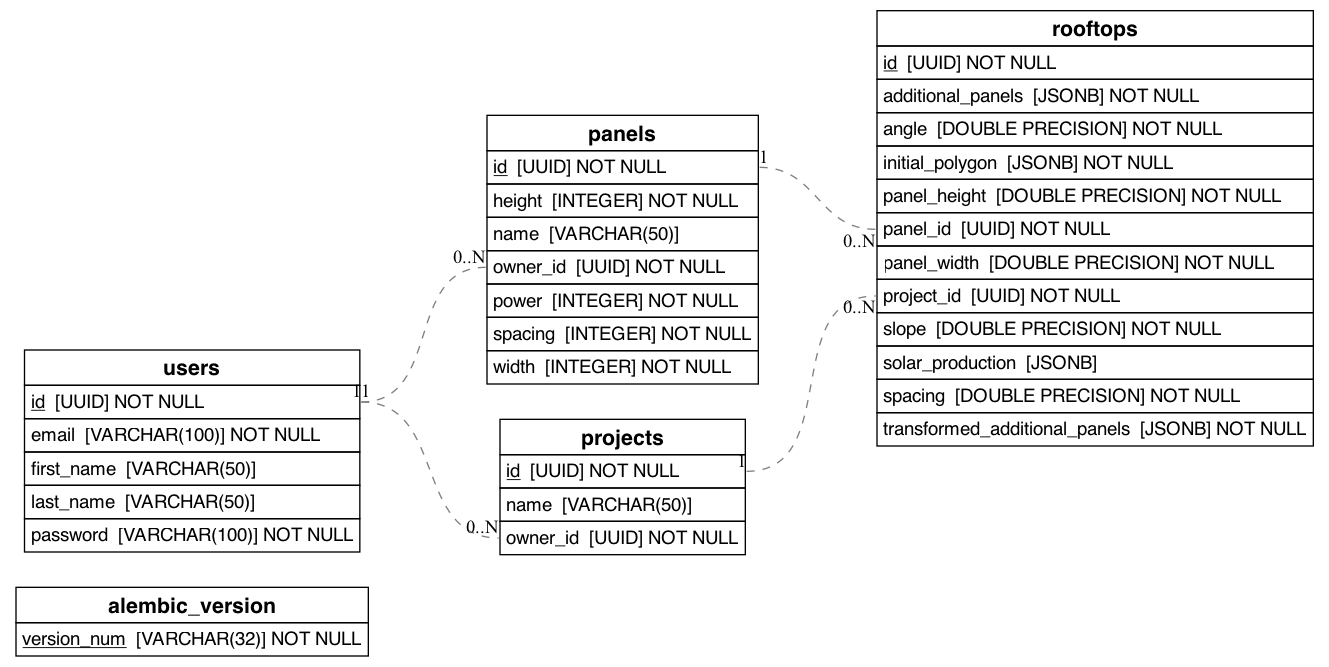
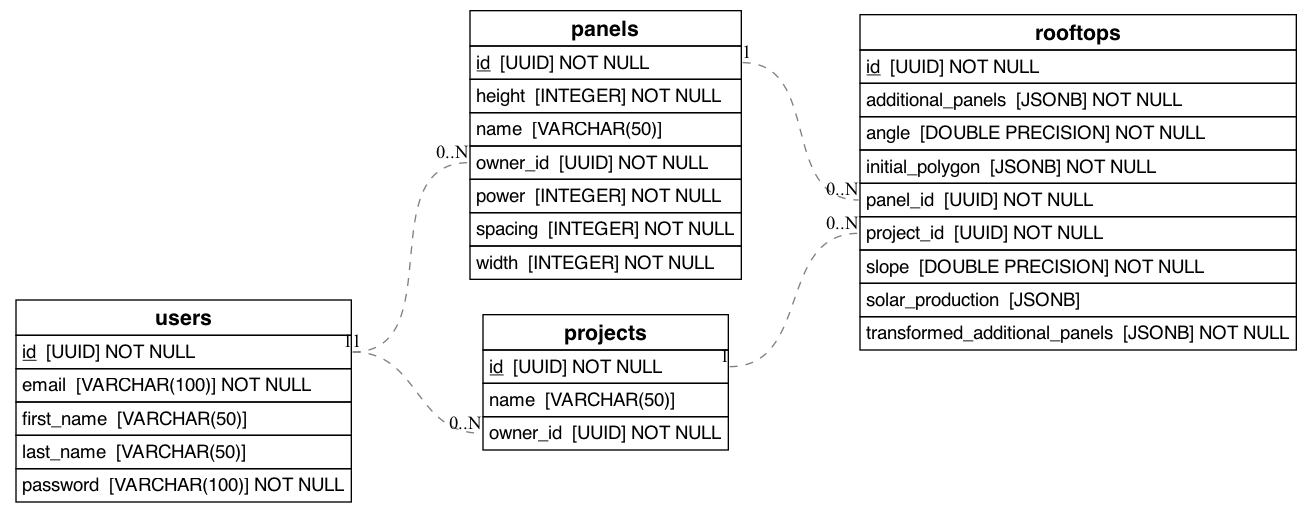
add solar production

Changed region(s): [[0.625, 0.0, 1.0, 0.6862], [0.3125, 0.0, 0.5938, 0.9045], [0.0, 0.499, 0.2812, 0.9981]]

diff --git a/services/rooftops.py b/services/rooftops.py
@@ -2,7 +2,9 @@ from sqlalchemy.orm import Session
 from models import Rooftop, Project
 from schemas import RooftopCreate, ProjectRooftop, RooftopUpdate
 from fastapi import HTTPException, status, responses
+from utils import transform_pvcalc_data
 import uuid
+import requests
 
 
 def get_projects_rooftops(project_id: uuid.UUID, db: Session) -> list[Rooftop]:
@@ -30,6 +32,33 @@ def create_new_rooftop(
 
     new_rooftop = Rooftop(**rooftop.model_dump(), project_id=project_id)
     db.add(new_rooftop)
+    db.commit()
+    db.refresh(new_rooftop)
+
+    # extract lat, long from initial polygon
+    try:
+        first_point = new_rooftop.initial_polygon[0]
+        lon, lat = first_point[0], first_point[1]
+
+    except Exception:
+        raise HTTPException(
+            status_code=status.HTTP_422_UNPROCESSABLE_ENTITY,
+            detail="Invalid initial_polygon: cannot extract coordinates.",
+        )
+
+    try:
+        pvcalc_result = fetch_pvcalc_data(
+            lat=lat,
+            lon=lon,
+            angle=new_rooftop.angle,
+            slope=new_rooftop.slope,
+        )
+    except Exception as e:
+        raise HTTPException(
+            status_code=status.HTTP_502_BAD_GATEWAY,
+            detail=f"PVCalc API error: {e}",
+        )
+    new_rooftop.solar_production = transform_pvcalc_data(pvcalc_result)
     db.commit()
     db.refresh(new_rooftop)
 
@@ -65,3 +94,24 @@ def delete_project_rooftop(rooftop_id: uuid.UUID, db: Session):
     db.delete(rooftop)
     db.commit()
     return responses.Response(status_code=status.HTTP_204_NO_CONTENT)
+
+
+def fetch_pvcalc_data(lat: float, lon: float, angle: float, slope: float) -> dict:
+    params = {
+        "lat": lat,
+        "lon": lon,
+        "aspect": angle,
+        "angle": slope,
+        "peakpower": 1,
+        "loss": 16,
+        "outputformat": "json",
+    }
+
+    url = "https://re.jrc.ec.europa.eu/api/v5_2/pvcalc"
+
+    response = requests.get(url, params=params, timeout=10)
+
+    if response.status_code != 200:
+        raise RuntimeError(f"PVCalc returned {response.status_code}: {response.text}")
+
+    return response.json()

diff --git a/utils/solar.py b/utils/solar.py
@@ -1,0 +1,33 @@
+def transform_pvcalc_data(raw: dict) -> dict:
+    monthly_raw = raw.get("outputs", {}).get("monthly", {}).get("fixed", [])
+    totals_raw = raw.get("outputs", {}).get("totals", {}).get("fixed", {})
+
+    monthly = []
+    for month_data in monthly_raw:
+        monthly.append(
+            {
+                "month": month_data.get("month"),
+                "E_d": month_data.get("E_d"),
+                "E_m": month_data.get("E_m"),
+                "H(i)_d": month_data.get("H(i)_d"),
+                "H(i)_m": month_data.get("H(i)_m"),
+                "SD_m": month_data.get("SD_m"),
+            }
+        )
+
+    yearly = {
+        "E_d": totals_raw.get("E_d"),
+        "E_m": totals_raw.get("E_m"),
+        "E_y": totals_raw.get("E_y"),
+        "H(i)_d": totals_raw.get("H(i)_d"),
+        "H(i)_m": totals_raw.get("H(i)_m"),
+        "H(i)_y": totals_raw.get("H(i)_y"),
+        "SD_m": totals_raw.get("SD_m"),
+        "SD_y": totals_raw.get("SD_y"),
+        "l_aoi": totals_raw.get("l_aoi"),
+        "l_spec": totals_raw.get("l_spec"),
+        "l_tg": totals_raw.get("l_tg"),
+        "l_total": totals_raw.get("l_total"),
+    }
+
+    return {"monthly": monthly, "yearly": yearly}

diff --git a/schemas/rooftops.py b/schemas/rooftops.py
@@ -17,6 +17,7 @@ class ProjectRooftop(BaseModel):
     transformed_additional_panels: Dict[str, Panel]
     angle: float
     slope: float
+    solar_production: Optional[dict] = None
 
 
 class RooftopCreate(BaseModel):
@@ -25,6 +26,7 @@ class RooftopCreate(BaseModel):
     transformed_additional_panels: Dict[str, Panel]
     angle: float
     slope: float
+    panel_id: uuid.UUID
 
 
 class RooftopUpdate(BaseModel):

diff --git a/utils/__init__.py b/utils/__init__.py
@@ -6,3 +6,4 @@ from .jwt_handler import (  # noqa
     validate_refresh_token,
     decode_token,
 )
+from .solar import transform_pvcalc_data  # noqa
